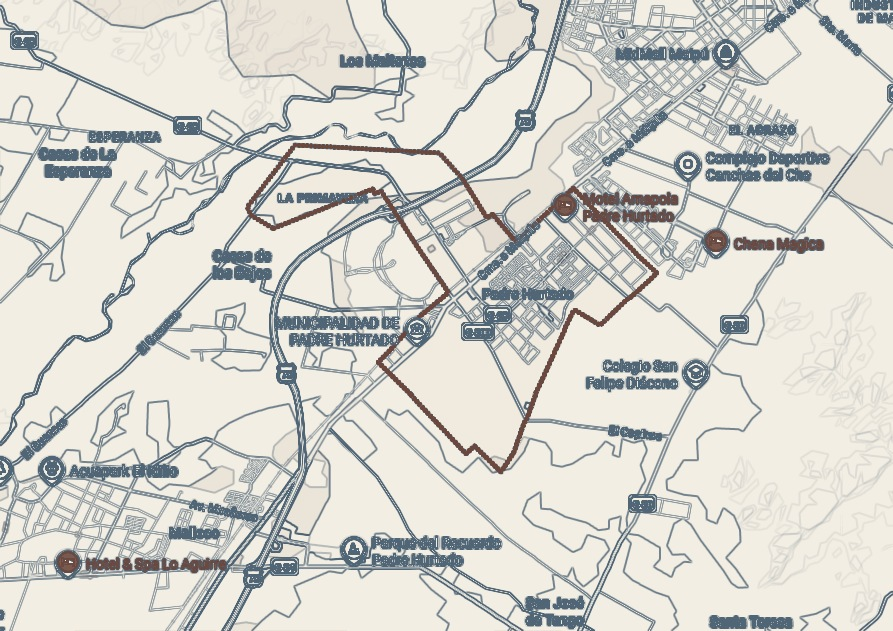
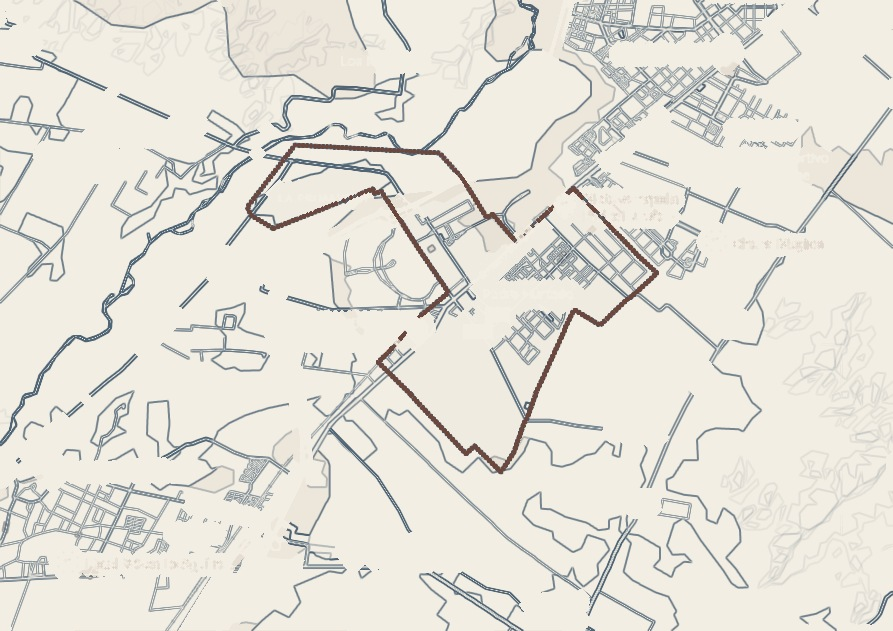
TIERRA CALMA: st-12-10 queda solo con el plano del mapa, y el titular al centro
Diego: "elimina los textos del mapa y los iconos, solo dejar el plano del mapa.
El texto superior que quede asi: cerca de santiago en una linea y abajo como
esta pero todo centrado al medio".

Titular: una linea y bloque centrado — vuelve a la regla de la cuenta, de la que
la pieza se habia salido al armarse sobre la referencia de Sonatta. La linea
unica ahorra 62 px y con eso la banda del mapa sube a la fila 495 y el archivo
se muestra a escala 1:1 en vez de reducido al 90%.

Quitar los rotulos se pudo MEDIR: los caminos nunca bajan de luminancia 187, la
letra llega a 48 y el nucleo de un icono a 118. Umbral en 180.

Pero borrar el glifo no alcanzo: el mismo sintoma volvio CINCO veces, cada una
con una causa distinta —
  1. la mascara del limite atrapaba todo lo rojo y los POI son magenta
  2. el antialias magenta daba alfa 0,06 y se protegia solo (umbral 0,05 -> 0,35)
  3. el halo casi blanco que Google pone alrededor de cada etiqueta
  4. la franja de antialias entre glifo (136) y halo (>236)
  5. el canto del parche de relleno, que no calza exacto con lo que lo rodea

Lo que NO funciono ninguna de las cinco veces fue ensanchar la mascara, que fue
el reflejo dos veces. Funciono ir a mirar el pixel que sobrevivia.

QA: 1 aviso, el deliberado de la slide 2. Re-subida sobre el mismo fileId.

diff --git a/src/compositions/tierracalma/OctubreV3.tsx b/src/compositions/tierracalma/OctubreV3.tsx
@@ -779,13 +779,14 @@ const G: React.FC = () => (
 /**
  * ⭐ LA BANDA DEL MAPA — en TRAZOS desde el 25-09.
  *
- * `escala 0,932` y `desdeFila 105` no son a ojo: el contorno de la comuna ocupa
- * las filas **143-572** del archivo (429 px). Para que entre COMPLETO en los
- * 470 px de banda con aire arriba y abajo hay que reducirlo a 400 px —de ahí el
- * 0,932— y empezar a mostrar el archivo 35 px de banda antes del contorno.
- * Un contorno cortado por el borde parece un error de encuadre, no un mapa.
+ * `escala 1,0` y `desdeFila 110` no son a ojo: el contorno de la comuna ocupa las
+ * filas **143-572** del archivo (429 px), y la banda mide 515. A escala 1:1 el
+ * contorno entra completo con 33 px de aire arriba y 53 abajo — y el archivo se
+ * muestra a su resolución nativa, sin remuestrear. `desdeFila 110` es lo que
+ * pone ese aire arriba. Un contorno cortado por el borde parece un error de
+ * encuadre, no un mapa.
  */
-const MAPA = {top: 543, h: 470, escala: 0.9, desdeFila: 105};
+const MAPA = {top: 495, h: 515, escala: 1.0, desdeFila: 110};
 
 /** Placa de dato, como las del pie de la referencia. */
 const Placa: React.FC<{children: React.ReactNode}> = ({children}) => (
@@ -851,8 +852,14 @@ const H: React.FC = () => (
       />
     </div>
 
-    {/* titular sobre navy macizo, encima de la banda */}
-    <div style={{position: "absolute", left: 96, top: 250, width: 880, textAlign: "left"}}>
+    {/* ⭐ Titular sobre navy macizo, CENTRADO y con «CERCA DE SANTIAGO.» en una
+        sola línea (Diego, 25-09). Vuelve a la regla de la cuenta —todo centrado
+        al medio— de la que esta pieza se había salido al armarse sobre la
+        referencia de Sonatta, que alineaba a la izquierda.
+        ⚠ La línea única no es sólo estética: ahorra 62 px de alto, y esos 62 px
+        son los que dejan subir la banda del mapa de la fila 543 a la 495 y
+        mostrarlo a escala 1:1 en vez de reducido al 90 %. */}
+    <div style={{position: "absolute", left: 0, right: 0, top: 250, textAlign: "center"}}>
       <div
         style={{
           fontFamily: SANS,
@@ -863,9 +870,7 @@ const H: React.FC = () => (
           color: "#fff",
         }}
       >
-        CERCA DE
-        <br />
-        SANTIAGO.
+        CERCA DE SANTIAGO.
       </div>
       <div
         style={{
@@ -892,14 +897,14 @@ const H: React.FC = () => (
           debajo, una píldora calada deja pasar los caminos por detrás del texto
           — que es exactamente lo que estas vueltas vinieron a prohibir.
         · Va en la fila 966 y no antes: el vértice sur del contorno comunal
-          cierra en la 963 (543 + (572-105)×0,90). Trece píxeles más arriba y la
+          cierra en la 957 (495 + (572-110)×1,0). Trece píxeles más arriba y la
           píldora le corta la punta a la comuna. */}
     <div
       style={{
         position: "absolute",
         left: 0,
         right: 0,
-        top: 976,
+        top: 970,
         display: "flex",
         justifyContent: "center",
       }}

diff --git a/scripts/tc-mapa-trazos.py b/scripts/tc-mapa-trazos.py
@@ -69,7 +69,15 @@ RAW = pathlib.Path(RAIZ) / "public/assets/tierracalma/oct/MAPA-PADRE-HURTADO.png
 OCT = pathlib.Path(RAIZ) / "public/assets/tierracalma/oct"
 
 # El punteado rojo del límite comunal, medido sobre el archivo.
-LIMITE = {"min_rojo": 150, "margen": 55}
+LIMITE = {"min_rojo": 150, "margen": 65, "azul_sobre_verde": 25}
+# Debajo de esta luminancia hay letra e iconos; encima, sólo plano. Medido: el
+# camino más oscuro del archivo está en 187 y la letra más clara de un topónimo
+# en 120. Tocar este número sin volver a medir es cómo se borra media Ruta 78.
+UMBRAL_ROTULO = 180.0
+# El reborde claro que Google pone alrededor de cada etiqueta. Medido: el
+# relleno urbano está en 232 y el camino más claro en 244, así que 236 deja
+# pasar el halo sin que el avance se escape por el relleno.
+UMBRAL_HALO = 236.0
 
 
 def _rgb(hex_: str) -> np.ndarray:
@@ -94,6 +102,94 @@ def trazos(a: np.ndarray, ganancia: float) -> np.ndarray:
     return np.clip(fuerza / ganancia, 0, 1)
 
 
+def _dilatar(m: np.ndarray, veces: int) -> np.ndarray:
+    for _ in range(veces):
+        m = np.maximum.reduce(
+            [m, np.roll(m, 1, 0), np.roll(m, -1, 0), np.roll(m, 1, 1), np.roll(m, -1, 1)]
+        )
+    return m
+
+
+def sin_rotulos(a: np.ndarray, limite: np.ndarray) -> np.ndarray:
+    """Borra los topónimos y los iconos, y deja sólo el plano.
+
+    Diego, 25-09: *"elimina los textos del mapa y los iconos, sólo dejar el plano
+    del mapa"*.
+
+    ⭐ LO QUE HACE POSIBLE SEPARARLOS ES UNA MEDICIÓN, NO UN RECORTE A MANO:
+    en este estilo de Google Maps **los caminos nunca bajan de luminancia 187**
+    (medido: Ruta 78 mín. 187, camino rural mín. 187, percentil 5 en 205),
+    mientras que la letra de un topónimo llega a **48** y el núcleo de un icono a
+    **118**. Un umbral en 175 corta justo por el medio y no toca un solo camino.
+
+    ⚠ El punteado rojo del límite comunal también es oscuro (lum ≈ 117), así que
+    hay que **excluirlo explícitamente** o se borra el protagonista.
+
+    Lo borrado no se rellena de blanco —dejaría manchas— sino que se **rellena
+    desde los bordes**: cada píxel tapado toma el promedio de sus vecinos ya
+    válidos, iterando hacia adentro. Así la letra desaparece dentro del relleno
+    que la rodeaba y no genera ningún borde al calcular el gradiente.
+    """
+    lum = 0.299 * a[:, :, 0] + 0.587 * a[:, :, 1] + 0.114 * a[:, :, 2]
+    # ⚠ 0,35 y no 0,05. El antialias de una etiqueta magenta contra el blanco
+    # deja píxeles casi blancos con un resto de rojo —(252,240,248): rojez 4—
+    # que daban alfa 0,06 y **se protegían solos del borrado**. El punteado del
+    # límite satura el alfa en 1,0, así que 0,35 lo deja entero y suelta el
+    # fantasma. Fue lo que mantuvo vivas «Motel Amapola», «Chena Mágica» y
+    # «Hotel & Spa Lo Aguirre» a través de tres intentos de ensanchar máscaras.
+    protegido = _dilatar(limite > 0.35, 2)
+    glifo = (lum < UMBRAL_ROTULO) & ~protegido
+
+    # ⚠ EL HALO ES MÁS ANCHO QUE CUALQUIER DILATACIÓN A CIEGAS. Google rodea
+    # cada etiqueta con un reborde casi blanco para que se lea sobre cualquier
+    # fondo, y en la tipografía grande ese reborde pasa de los 5 px. Dilatar
+    # hasta cubrirlo se comía caminos enteros; así que en vez de dilatar se
+    # **persigue**: desde el glifo se avanza a los vecinos que sigan siendo casi
+    # blancos, y se para a los 8 pasos. El relleno del mapa (#E7E8E9 → 232) corta
+    # el avance solo; el tope de 8 evita que se escape por un camino (#F5F4F4 →
+    # 244), que es igual de claro y llegaría hasta el borde del cuadro.
+    halo = glifo.copy()
+    for _ in range(8):
+        halo |= _dilatar(halo, 1) & (lum > UMBRAL_HALO)
+    # ⚠ Y todavía falta el ANTIALIAS. Entre el glifo (lum 136 en el magenta) y
+    # el halo (>236) hay una franja de píxeles intermedios que no cumple ninguna
+    # de las dos condiciones: es la que dejaba el contorno fantasma con forma de
+    # palabra en «Motel Amapola», «Chena Mágica» y «Hotel & Spa Lo Aguirre», las
+    # tres etiquetas de tipografía grande. Se cubre ensanchando 5 px, que es el
+    # ancho medido de esa franja en el cuerpo mayor del mapa.
+    tapar = _dilatar((glifo | halo) & ~protegido, 5) & ~protegido
+
+    val = a.astype(float).copy()
+    valido = ~tapar
+    val[tapar] = 0.0
+    vecinos = ((1, 0), (-1, 0), (0, 1), (0, -1), (1, 1), (1, -1), (-1, 1), (-1, -1))
+    for _ in range(24):
+        if valido.all():
+            break
+        suma = np.zeros_like(val)
+        cuenta = np.zeros(val.shape[:2])
+        for dy, dx in vecinos:
+            v = np.roll(np.roll(valido, dy, 0), dx, 1)
+            suma += np.roll(np.roll(val, dy, 0), dx, 1) * v[:, :, None]
+            cuenta += v
+        nuevos = (~valido) & (cuenta > 0)
+        val[nuevos] = suma[nuevos] / cuenta[nuevos][:, None]
+        valido |= nuevos
+    # Y encima del relleno, la zona donde NO se dibuja trazo: si algo del halo
+    # sobrevivió, acá no llega a convertirse en línea. Los caminos quedan
+    # cortados donde iba la etiqueta — que es lo que hace un mapa de verdad
+    # cuando pone un topónimo encima.
+    # ⚠ Y la zona de «no dibujar» va **dos píxeles más ancha que el parche**.
+    # El relleno no calza exacto con el color que lo rodea, y ese escalón mínimo
+    # en el borde del parche lo dibujaba el gradiente como un rectángulo
+    # fantasma con la forma de la etiqueta. No era el rótulo sobreviviendo: era
+    # el canto de haberlo borrado.
+    no_dibujar = _dilatar(tapar, 2)
+    print(f"· rótulos, iconos y halos borrados: {100 * tapar.mean():.1f}% del cuadro"
+          f" · sin trazo: {100 * no_dibujar.mean():.1f}%")
+    return val, no_dibujar
+
+
 def _conv1(m: np.ndarray, nucleo: np.ndarray, eje: int) -> np.ndarray:
     """Convolución 1-D de 3 taps, con borde replicado."""
     m = m if eje == 0 else m.T
@@ -113,6 +209,13 @@ def alfa_limite(a: np.ndarray, engrosar: int = 1) -> np.ndarray:
     rojez = (r - np.maximum(g, b)) / float(LIMITE["margen"])
     alfa = np.clip(rojez, 0, 1)
     alfa[r < LIMITE["min_rojo"]] = 0
+    # ⚠ NO TODO LO ROJO ES EL LÍMITE. El mapa trae POI en MAGENTA —«Chena
+    # Mágica», «Motel Amapola», «Hotel & Spa Lo Aguirre»— y sin este filtro se
+    # protegían del borrado y salían pintados como si fueran el contorno.
+    # Medido: el límite es rojo anaranjado (#E2796A, rojez 99, azul 105 POR
+    # DEBAJO del verde 121); el POI es magenta (#E74EBC, rojez 44, azul 187 muy
+    # por ENCIMA del verde 78). El canal azul los separa sin ambigüedad.
+    alfa[b > g + LIMITE["azul_sobre_verde"]] = 0
     for _ in range(engrosar):
         alfa = np.maximum.reduce(
             [
@@ -159,13 +262,15 @@ def main() -> int:
     print(f"MAPA-PADRE HURTADO: {base.size[0]}×{base.size[1]}")
 
     lim = alfa_limite(a)
+    plano, halo = sin_rotulos(a, lim)
     ys, xs = np.nonzero(lim > 0.25)
     print(f"· límite comunal: {len(xs)} px  ·  x {xs.min()}-{xs.max()}  y {ys.min()}-{ys.max()}")
 
     destino = pathlib.Path(a_.probar and "." or OCT)
     for nombre, cfg in VERSIONES.items():
         g = a_.ganancia or cfg["ganancia"]
-        t = trazos(a, g) * cfg["fuerza"]
+        t = trazos(plano, g) * cfg["fuerza"]
+        t[halo] = 0.0
         fondo, tinta, acento = _rgb(cfg["fondo"]), _rgb(cfg["tinta"]), _rgb(cfg["acento"])
         out = fondo[None, None, :] * (1 - t[:, :, None]) + tinta[None, None, :] * t[:, :, None]
         # el límite comunal encima, como único acento

diff --git a/clients/tierra-calma/CLAUDE.md b/clients/tierra-calma/CLAUDE.md
@@ -1226,6 +1226,52 @@ lectura y el marco teñido por tramos.
 macizo. Y va en la fila 976 y no antes porque el vértice sur del contorno cierra
 en la 963: trece píxeles más arriba y la píldora le corta la punta a la comuna.
 
+#### ⛔ SÓLO EL PLANO: ni topónimos ni iconos (Diego, 25-09, 2ª vuelta)
+
+> *"Elimina los textos del mapa y los iconos, sólo dejar el plano del mapa."*
+
+Separarlos **se puede medir**: en este estilo de Google Maps los caminos **nunca
+bajan de luminancia 187** (Ruta 78 mín. 187, camino rural mín. 187, percentil 5
+en 205), mientras que la letra de un topónimo llega a **48** y el núcleo de un
+icono a **118**. Un umbral en **180** corta por el medio y no toca un camino.
+
+Pero borrar el glifo no alcanzó. Costó **cuatro causas distintas**, y cada una
+dejaba el mismo síntoma —etiquetas fantasma— por una razón diferente:
+
+| # | Qué quedaba | Por qué | Cómo se arregló |
+|---|---|---|---|
+| 1 | los POI pintados **en arena**, como si fueran el límite | la máscara del límite atrapaba todo lo rojo, y los POI son **magenta** | el canal azul los separa: el límite es rojo anaranjado (azul 105, **por debajo** del verde 121), el POI es magenta (azul 187, muy por encima del verde 78) |
+| 2 | un anillo claro con forma de palabra | Google rodea cada etiqueta con un **halo casi blanco** más ancho que cualquier dilatación a ciegas | se **persigue** el halo desde el glifo hacia afuera, avanzando sólo por píxeles >236 y con tope de 8 pasos (sin tope se escapa por los caminos, que son igual de claros) |
+| 3 | el contorno de la palabra en las etiquetas grandes | entre el glifo (136) y el halo (>236) hay una **franja de antialias** que no cumple ninguna condición | se ensancha 5 px, el ancho medido de esa franja |
+| 4 | un rectángulo tenue con la forma de la etiqueta | **no era el rótulo: era el canto del parche.** El relleno no calza exacto con el color que lo rodea y el gradiente dibujaba ese escalón | la zona de «no dibujar» va 2 px más ancha que el parche |
+
+⚠ Y la que más costó, la 1, tenía un segundo piso: el antialias de una etiqueta
+magenta contra el blanco deja píxeles casi blancos con un resto de rojo
+—(252,240,248), rojez 4— que daban alfa 0,06 y **se protegían solos del
+borrado**. El umbral de protección subió de 0,05 a **0,35**; el punteado del
+límite satura en 1,0, así que lo deja entero.
+
+> 💡 Los caminos quedan **cortados** donde iba la etiqueta. No es un defecto: es
+> lo que hace un mapa de verdad cuando pone un topónimo encima.
+
+> ⭐ **La lección de método:** el mismo síntoma se repitió cinco veces y las cinco
+> tenía una causa distinta. Es el reverso de § 4 sexies · 13 —«si el defecto
+> vuelve, cambia de eje»—: acá cambiar de eje funcionó cinco veces seguidas
+> porque cada vez se **midió** el píxel que sobrevivía en vez de subir un umbral
+> a ojo. Ensanchar la máscara, que fue el reflejo, no arregló ninguna de las
+> cinco.
+
+#### El titular pasa a una línea y vuelve al centro
+
+*"El texto superior que quede así: «cerca de santiago» en una línea, y abajo como
+está pero todo centrado al medio."* La pieza se había armado sobre la referencia
+de Sonatta, que alinea a la izquierda; vuelve a la regla de la cuenta —todo
+centrado al medio (§ 4)—.
+
+⚠ **Y la línea única no es sólo estética: paga la banda del mapa.** Ahorra 62 px
+de alto, y esos 62 px son los que dejan subir la banda de la fila 543 a la 495 y
+mostrar el archivo a **escala 1:1** en vez de reducido al 90 %.
+
 ⛔ **LO QUE ESTE MAPA NO TIENE: LA UBICACIÓN DE TIERRA CALMA.**
 Medido contra `mapa3.jpg` con dos anclas independientes —«Casas de La Esperanza»
 y «Casas de los Bajos»—, la escala entre los dos archivos es **1,70** y el pin

diff --git a/clients/tierra-calma/BITACORA.md b/clients/tierra-calma/BITACORA.md
@@ -5,6 +5,59 @@
 
 ---
 
+## 2026-09-25 (2ª vuelta) — Diego Aguilar (st-12-10: sólo el plano, y el titular al centro)
+
+**Qué se hizo:** *"Elimina los textos del mapa y los iconos, sólo dejar el plano
+del mapa. El texto superior que quede así: «cerca de santiago» en una línea y
+abajo como está pero todo centrado al medio."*
+
+**El titular.** «CERCA DE SANTIAGO.» en una línea y el bloque centrado. La pieza
+se había armado en septiembre sobre la referencia de Sonatta, que alinea a la
+izquierda; vuelve a la regla de la cuenta. ⚠ **La línea única paga el mapa:**
+ahorra 62 px de alto, y con esos 62 px la banda sube de la fila 543 a la 495 y el
+archivo se muestra a **escala 1:1** en vez de reducido al 90 %.
+
+**Quitar los rótulos se pudo medir.** En este estilo de Google Maps los caminos
+**nunca bajan de luminancia 187**; la letra de un topónimo llega a 48 y el núcleo
+de un icono a 118. Un umbral en 180 corta por el medio y no toca un camino.
+
+⭐ **Pero borrar el glifo no alcanzó, y ahí está el aprendizaje de hoy.** El mismo
+síntoma —etiquetas fantasma— volvió **cinco veces**, y cada vez tenía una causa
+distinta:
+
+| # | Qué quedaba | La causa real |
+|---|---|---|
+| 1 | los POI pintados en arena | la máscara del límite atrapaba todo lo rojo, y los POI son **magenta** (los separa el canal azul) |
+| 2 | los POI seguían ahí pese al filtro | el **antialias** magenta contra blanco da píxeles casi blancos con rojez 4 → alfa 0,06 → **se protegían solos**. Umbral de protección 0,05 → 0,35 |
+| 3 | un anillo con forma de palabra | Google pone un **halo casi blanco** alrededor de cada etiqueta, más ancho que cualquier dilatación. Se persigue desde el glifo, sólo por píxeles >236 y con tope de 8 pasos |
+| 4 | el contorno de las etiquetas grandes | la **franja de antialias** entre glifo (136) y halo (>236) no cumple ninguna condición. Se ensancha 5 px |
+| 5 | un rectángulo tenue con forma de etiqueta | **no era el rótulo: era el canto del parche.** El relleno no calza exacto con lo que lo rodea. La zona de «no dibujar» va 2 px más ancha |
+
+⛔ **Lo que NO funcionó ninguna de las cinco veces: ensanchar la máscara.** Fue el
+reflejo en los dos primeros intentos —dilatación de 2 a 3, de 5 a 7— y no movió
+el síntoma ni un pixel, porque el problema nunca estuvo en la distancia. Lo que
+funcionó las cinco veces fue **ir a mirar el píxel que sobrevivía** y preguntarse
+por qué ese en particular.
+
+Es el reverso de § 4 sexies · 13 («si el defecto vuelve, cambia de eje»): acá
+cambiar de eje funcionó cinco veces seguidas, pero sólo porque cada cambio salió
+de una medición y no de una corazonada.
+
+**Dónde quedó:** `scripts/tc-mapa-trazos.py` (funciones `alfa_limite` y
+`sin_rotulos`, con los cinco umbrales documentados en el código), `OctubreV3.tsx`
+(bloque `H`: titular centrado, `MAPA` a escala 1,0 desde la fila 495, píldora en
+la 970). **QA: 1 aviso**, el deliberado de la slide 2. Re-subida sobre el mismo
+`fileId`.
+
+**Qué sigue:** esperar la vuelta de Diego sobre la story. El carrusel `c-20-10-2`
+sigue sin tocar, con MAPA-3 a sangre en papel verde.
+
+**Abierto:** sin cambios — el OK escrito de Fran o Blanca, el aviso del agua
+potable, la mano manuscrita propia, y **la captura de mapa que traiga el pin del
+proyecto y el contorno de la comuna a la vez** (hoy ningún archivo tiene los dos).
+
+---
+
 ## 2026-09-25 — Diego Aguilar (st-12-10: el mapa pasa a TRAZOS)
 
 **Qué se hizo:** *"Necesito que el mapa [sea] en trazos, ocupa el MAPA-PADRE
